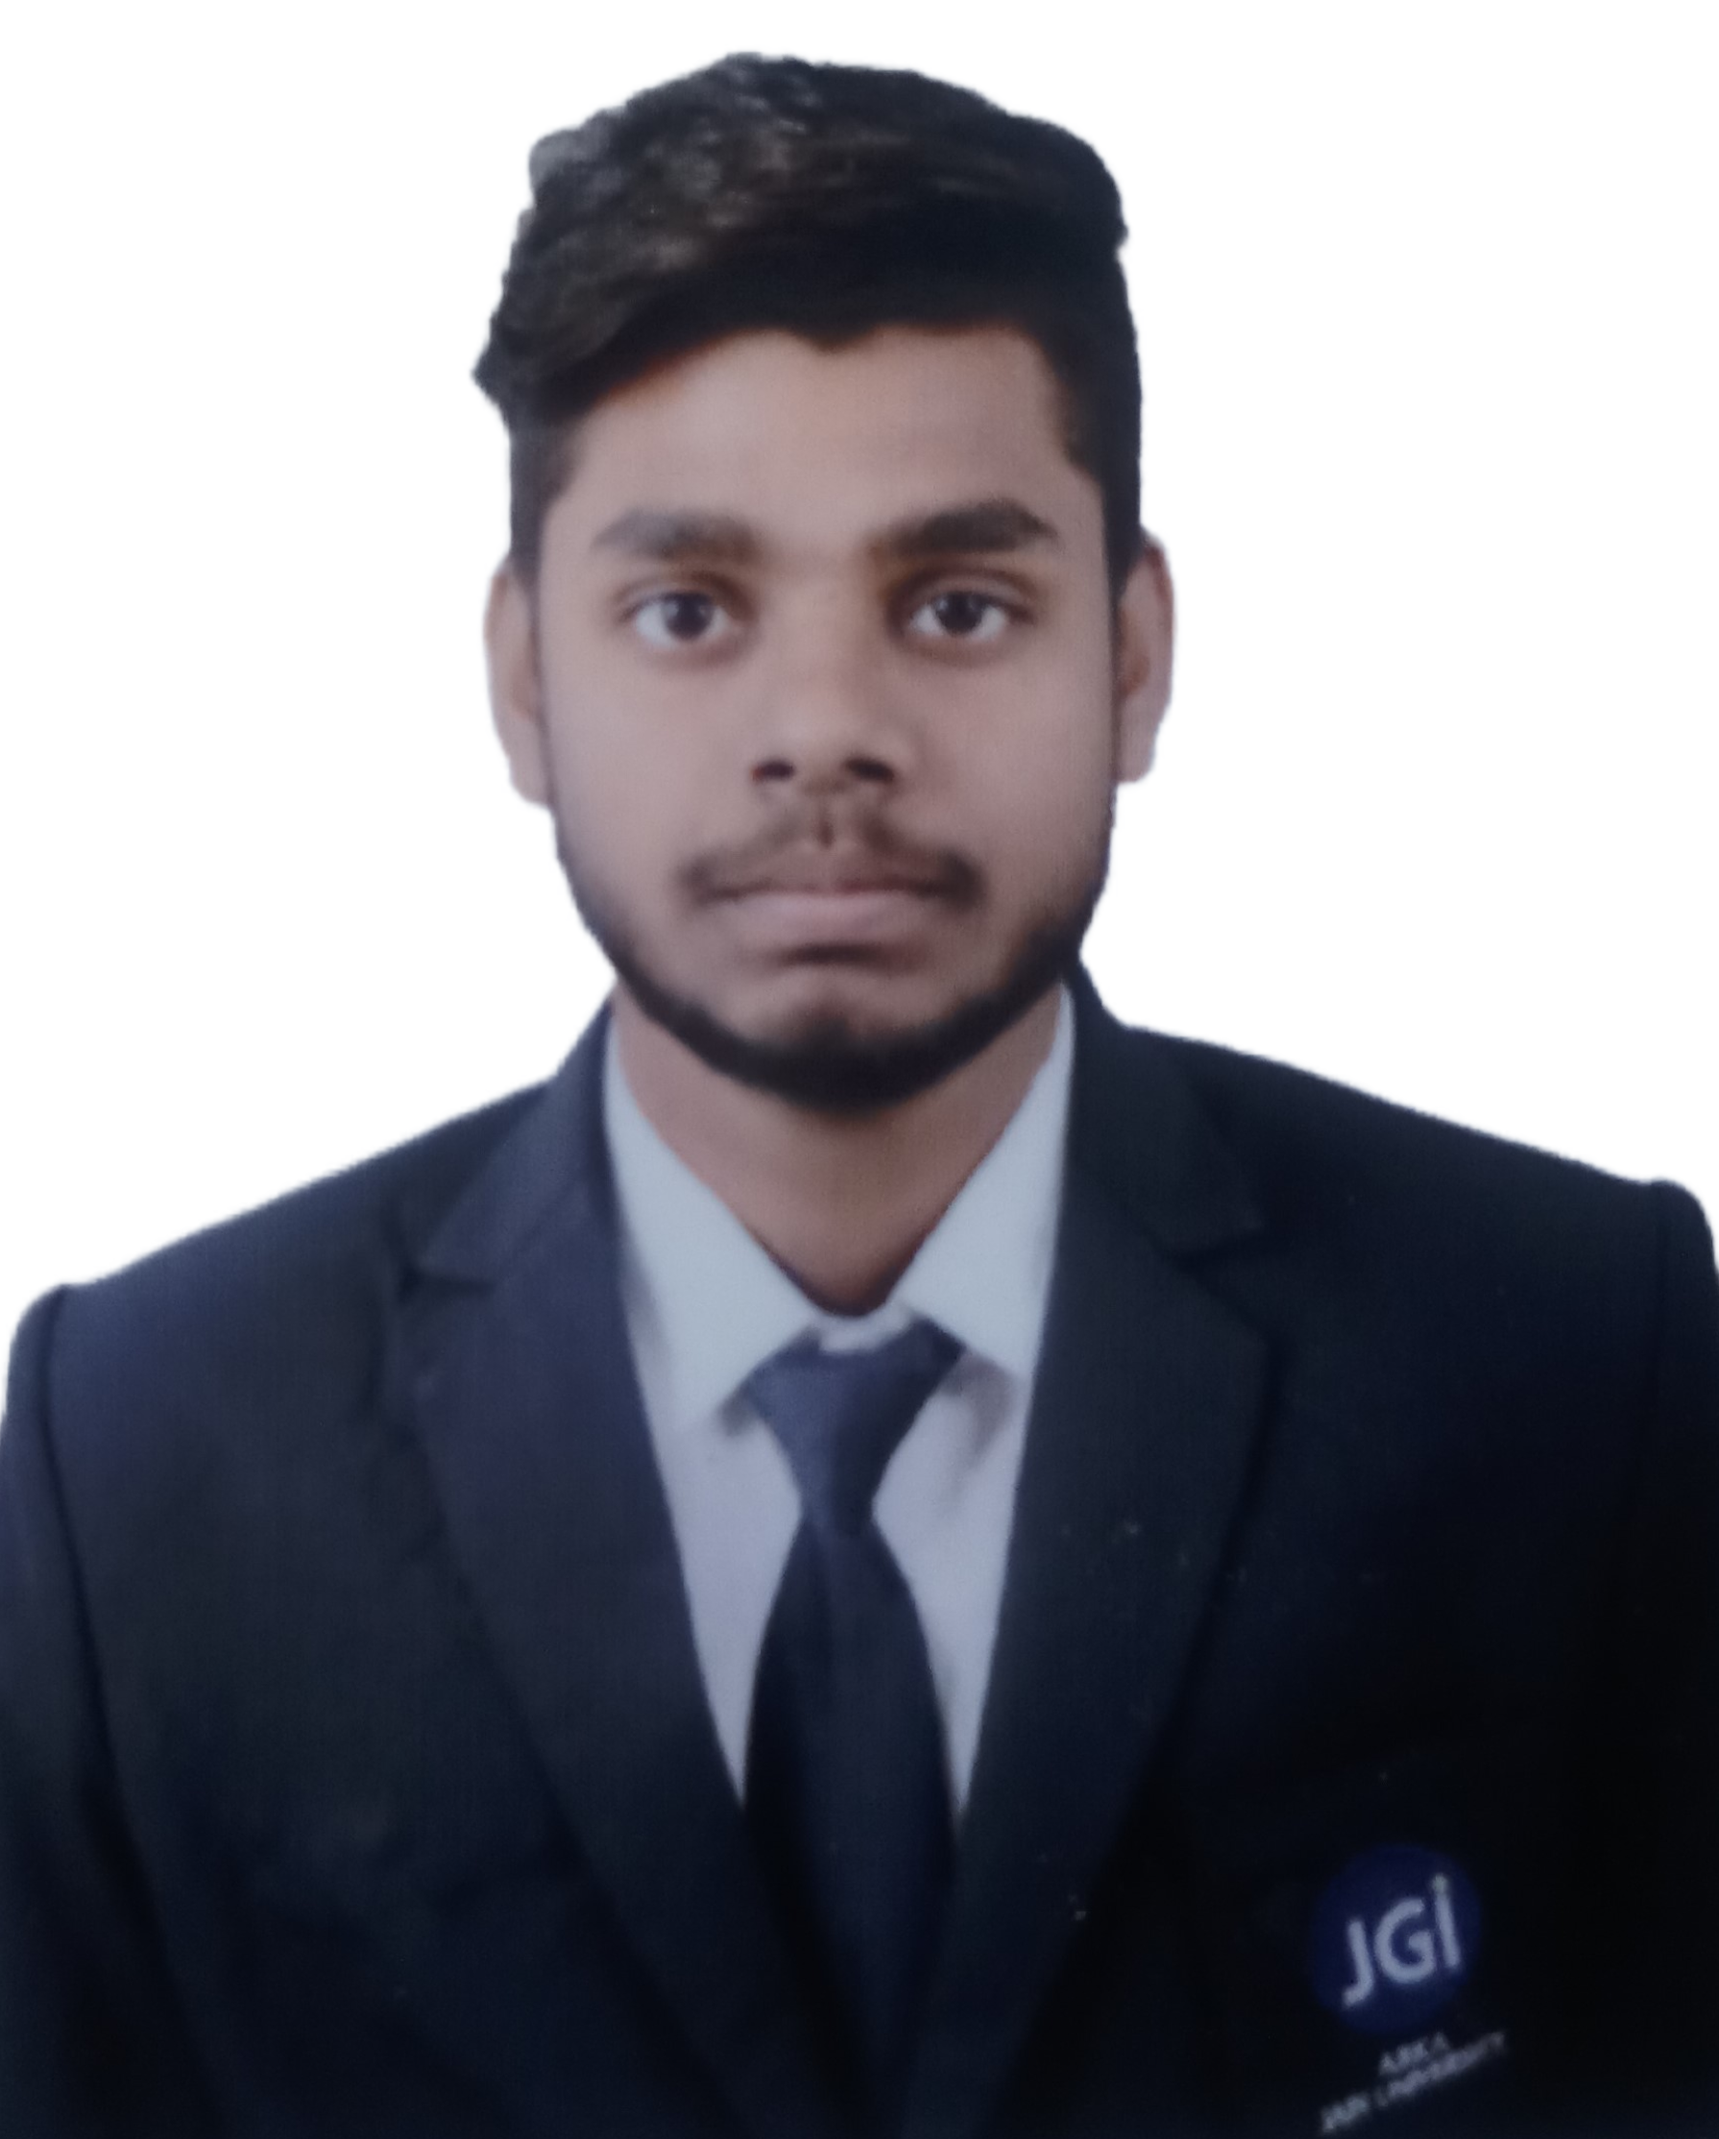
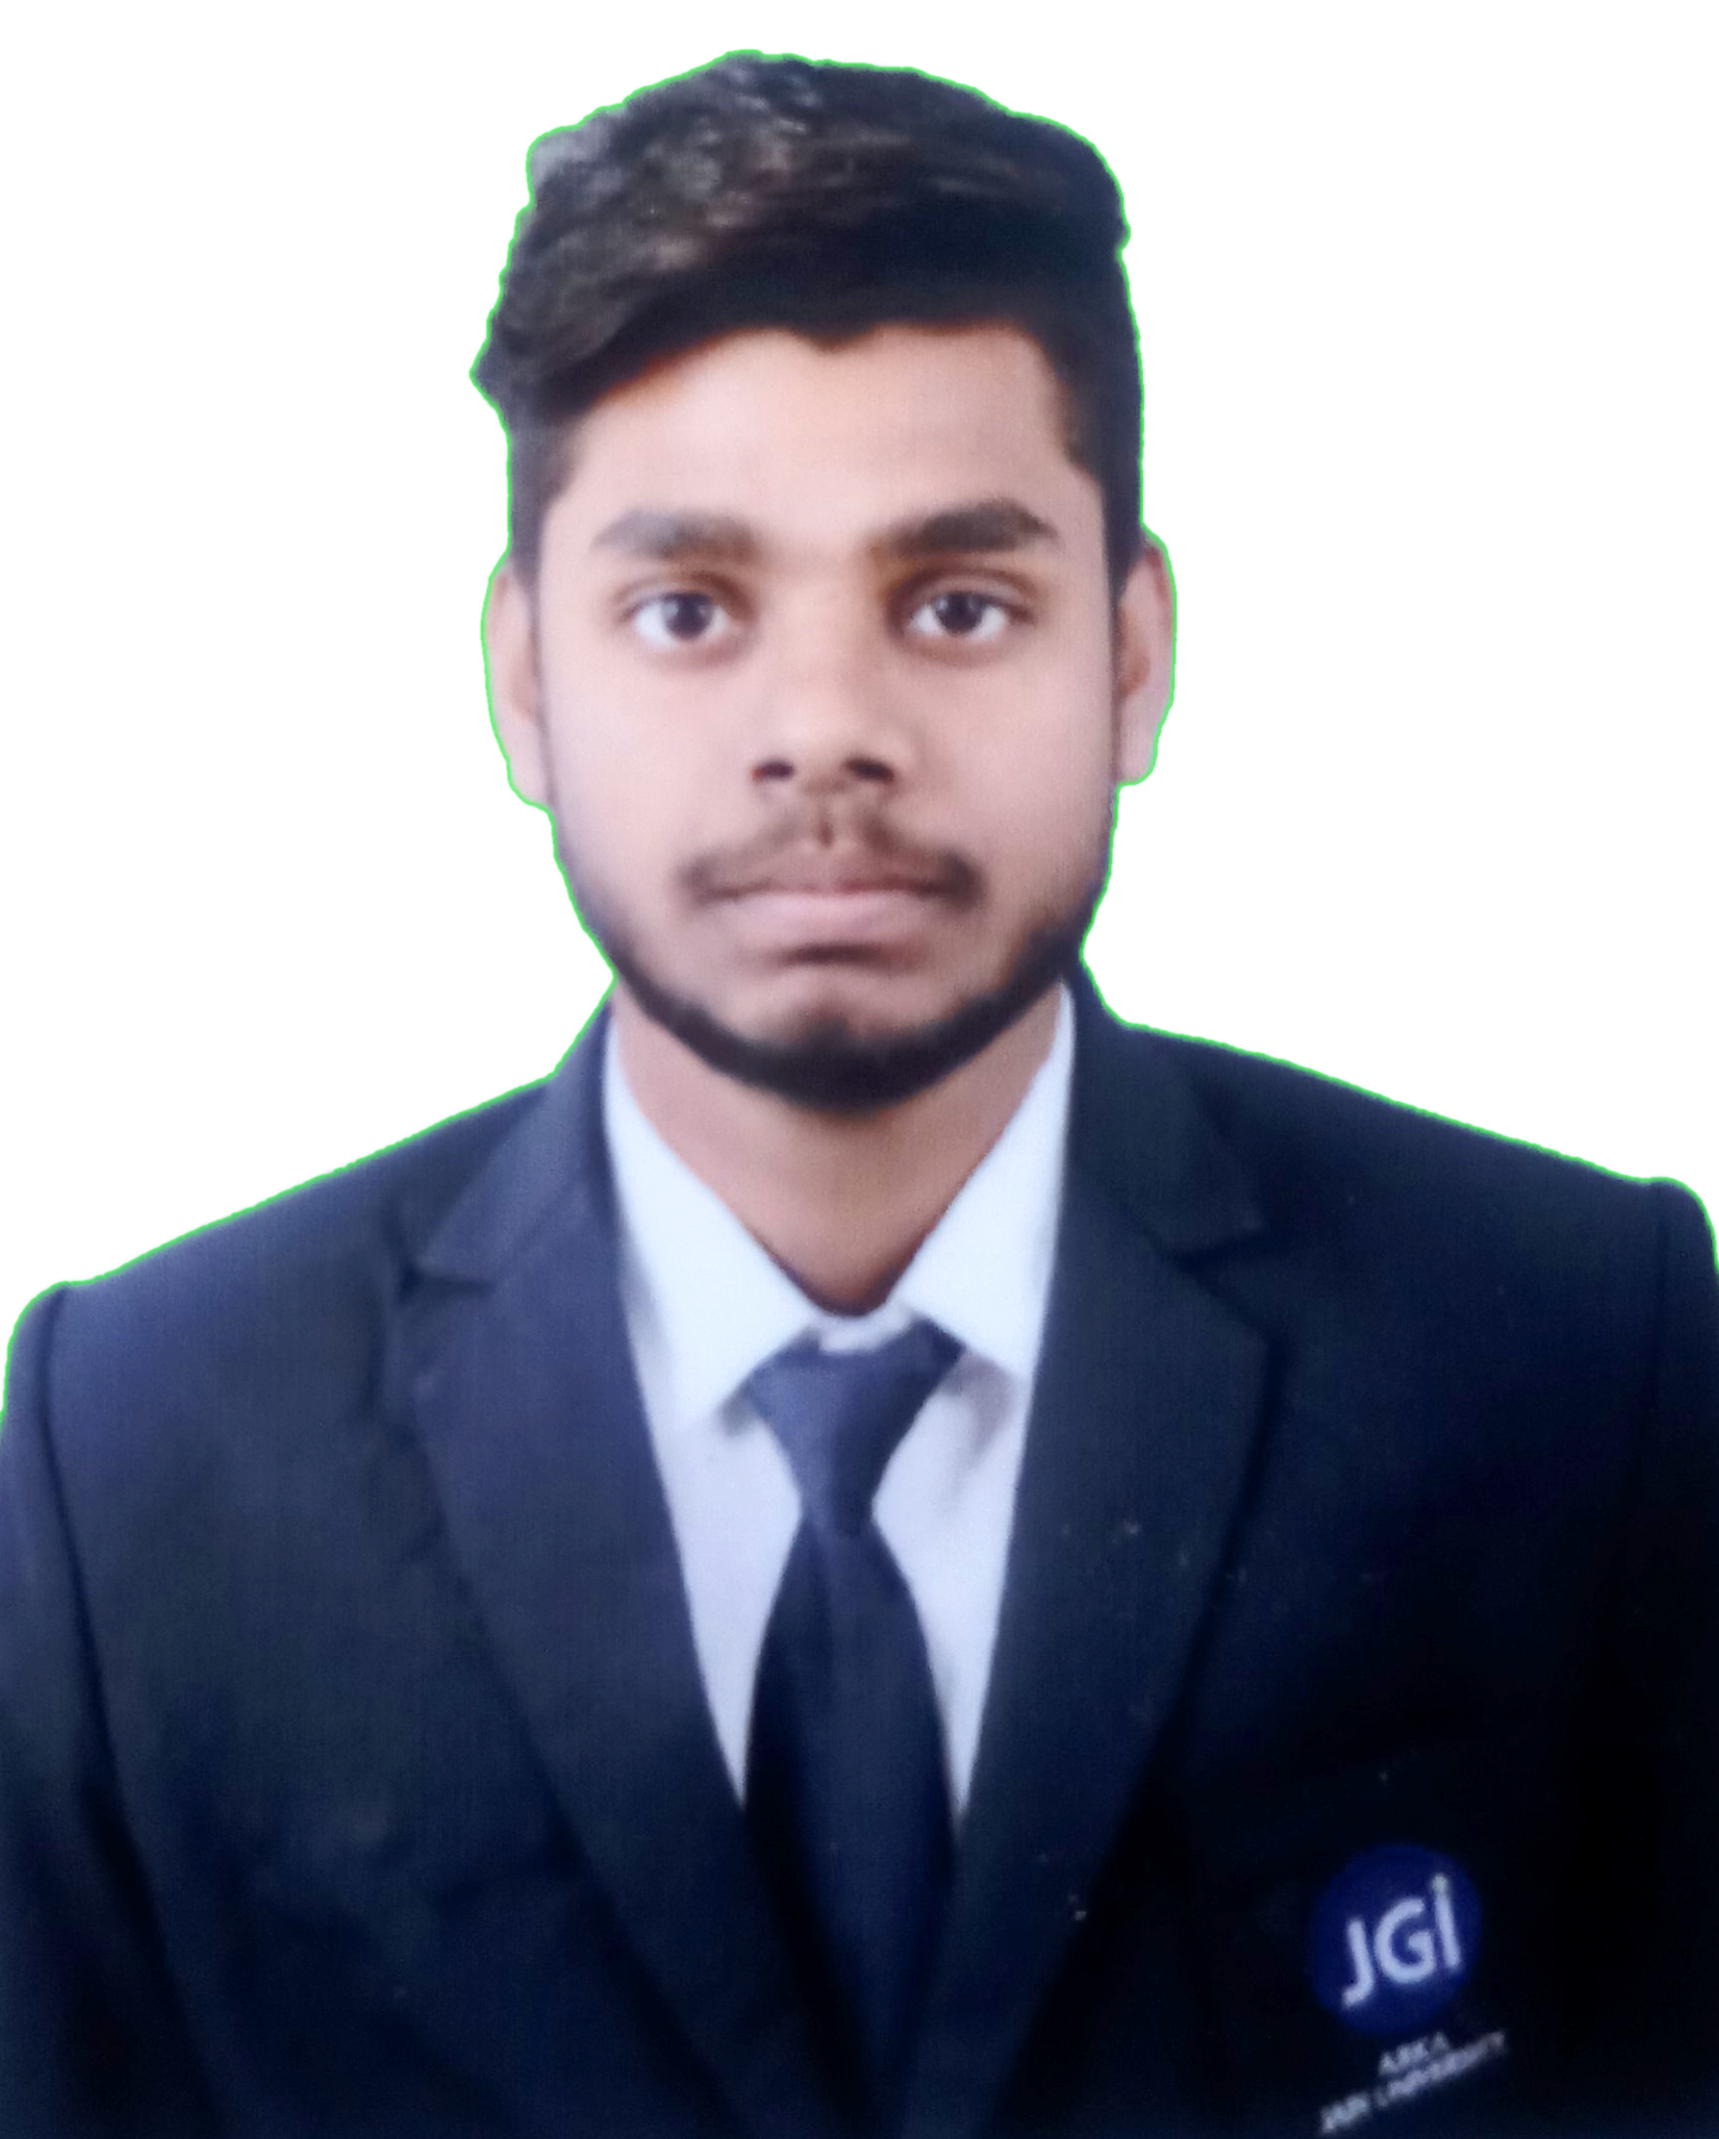
Enhanced My Images

diff --git a/index.html b/index.html
@@ -122,7 +122,7 @@
         <div id="image" data-aos="zoom-in-up">
           <div class="slant"></div>
           <img href="" src="./images/Abhijit pc.png" id="pc" alt="My Photograph" loading="lazy"></img>
-          <img href="" src="./images/me mobile.jpg" id="mobile" alt="My Photograph" loading="lazy"></img>
+          <img href="" src="./images/me mobile.png" id="mobile" alt="My Photograph" loading="lazy"></img>
         </div>
       </section>
 
